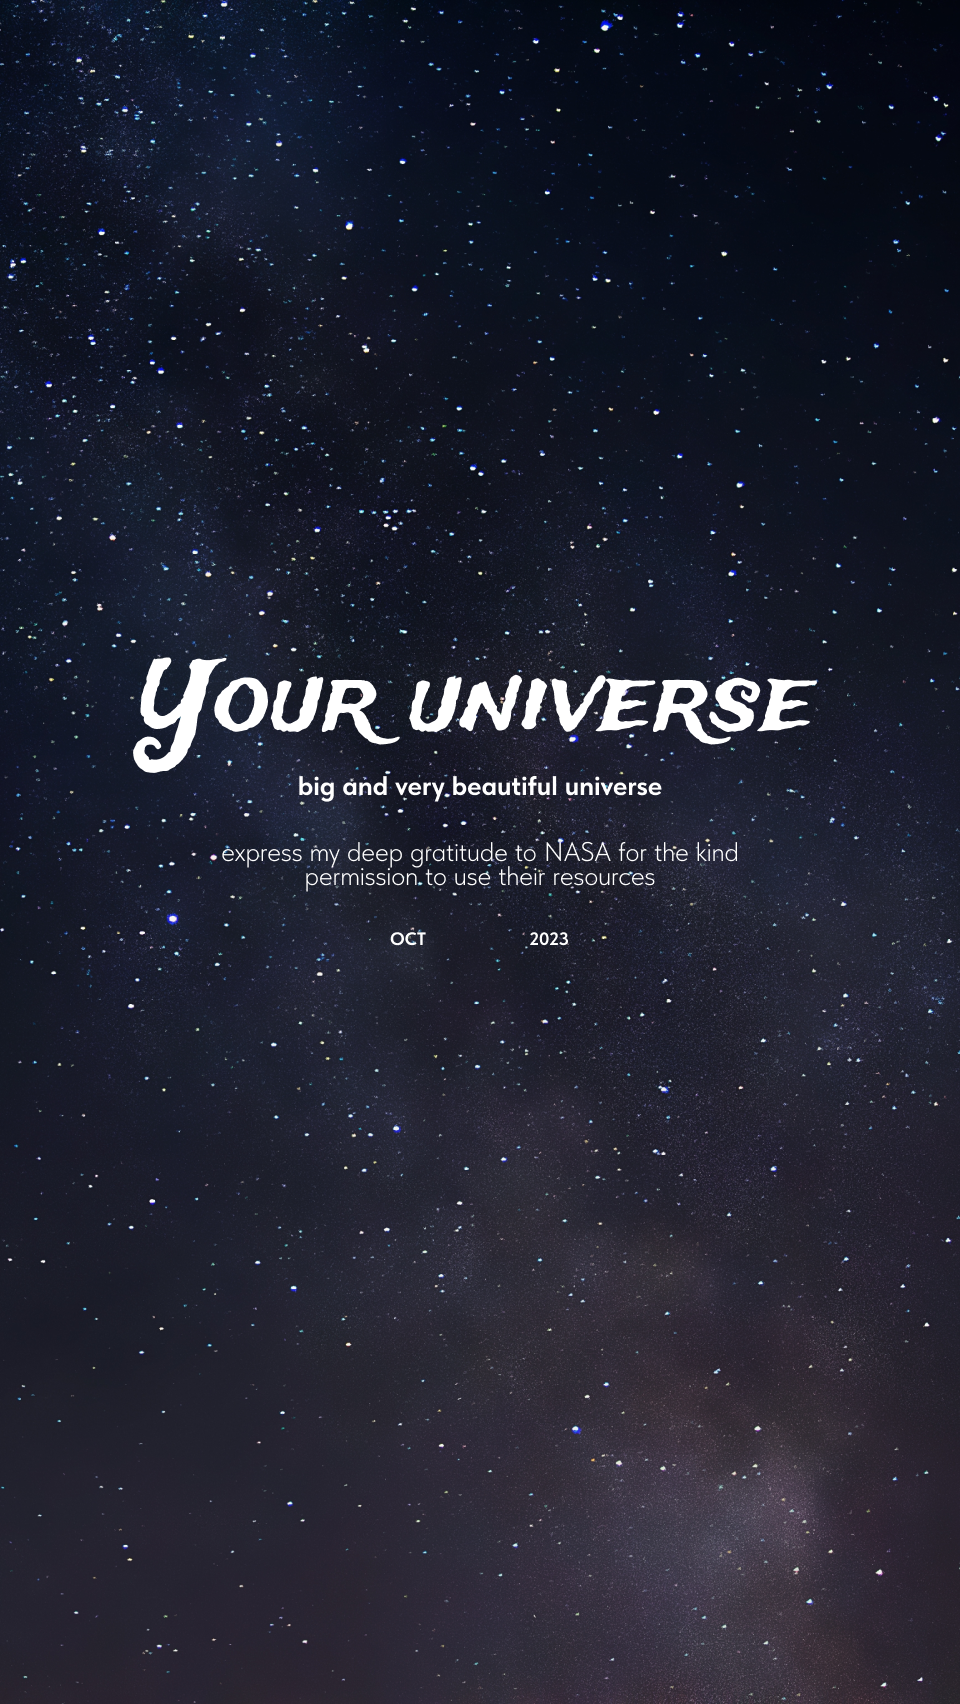
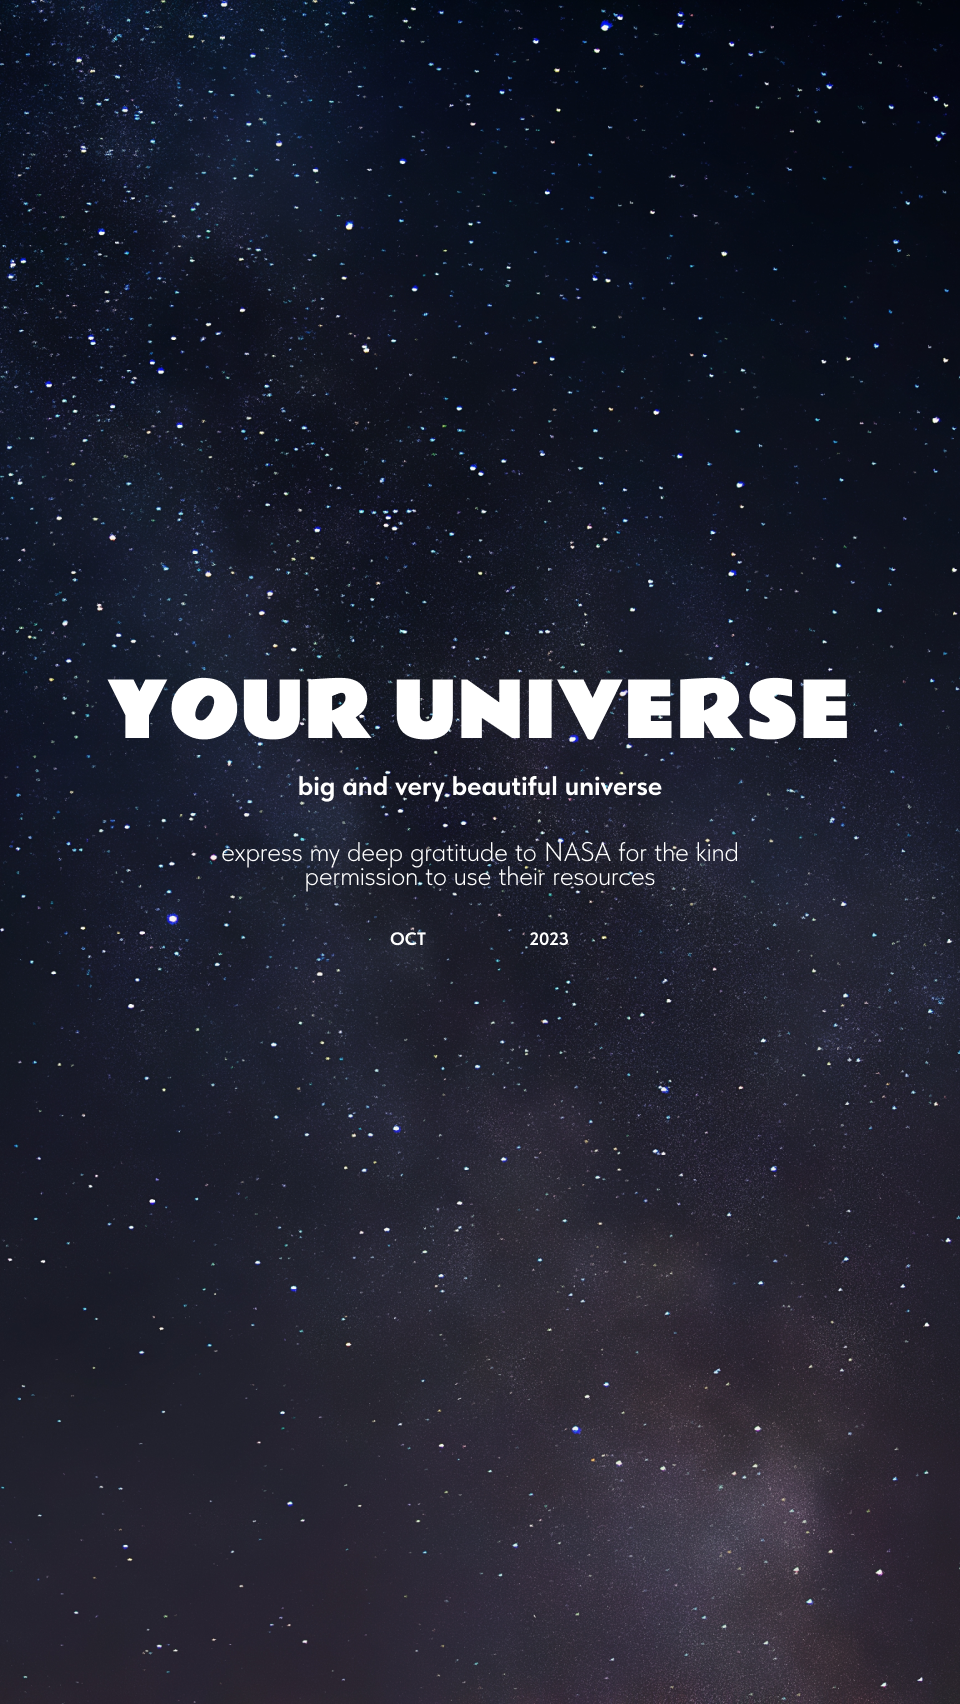
Update interface and navigation

Changed region(s): [[0.125, 0.3732, 0.9062, 0.4665]]

diff --git a/YourUniverse/ViewControllers/PlanetViewController.swift b/YourUniverse/ViewControllers/PlanetViewController.swift
@@ -8,7 +8,9 @@
 import UIKit
 import Alamofire
 
-class PlanetViewController: UIViewController {
+final class PlanetViewController: UIViewController {
+    
+    // MARK: - IB Outlets
     
     @IBOutlet weak var imageView: UIImageView!
     
@@ -18,18 +20,24 @@ class PlanetViewController: UIViewController {
     @IBOutlet weak var yourUniverseLabel: UILabel!
     @IBOutlet weak var copyrightLabel: UILabel!
     
-    let placeholderImage = UIImage(named: "placeholder")
+    // MARK: - Private Properties
+    
+    private let placeholderImage = UIImage(named: "placeholder")
+    
+    // MARK: - Life Cycle Methods
     
     override func viewDidLoad() {
         super.viewDidLoad()
         setupUI()
     }
     
-    func setupUI() {
+    // MARK: - Private Properties
+    
+    private func setupUI() {
         titleLabel.font = UIFont(name: "TildaSans-Black", size: 20)
         explanationLabel.font = UIFont(name: "TildaSans-Regular", size: 13)
         onThisPhotoLabel.font = UIFont(name: "TildaSans-Regular", size: 12)
-        yourUniverseLabel.font = UIFont(name: "TradeWinds", size: 30)
+        yourUniverseLabel.font = UIFont(name: "RammettoOne-Regular", size: 30)
         
         imageView.layer.cornerRadius = 10.0
         imageView.clipsToBounds = true
@@ -37,6 +45,8 @@ class PlanetViewController: UIViewController {
         fetchAPOD()
     }
 }
+
+    // MARK: - Network
 
 extension PlanetViewController {
     func fetchAPOD() {
